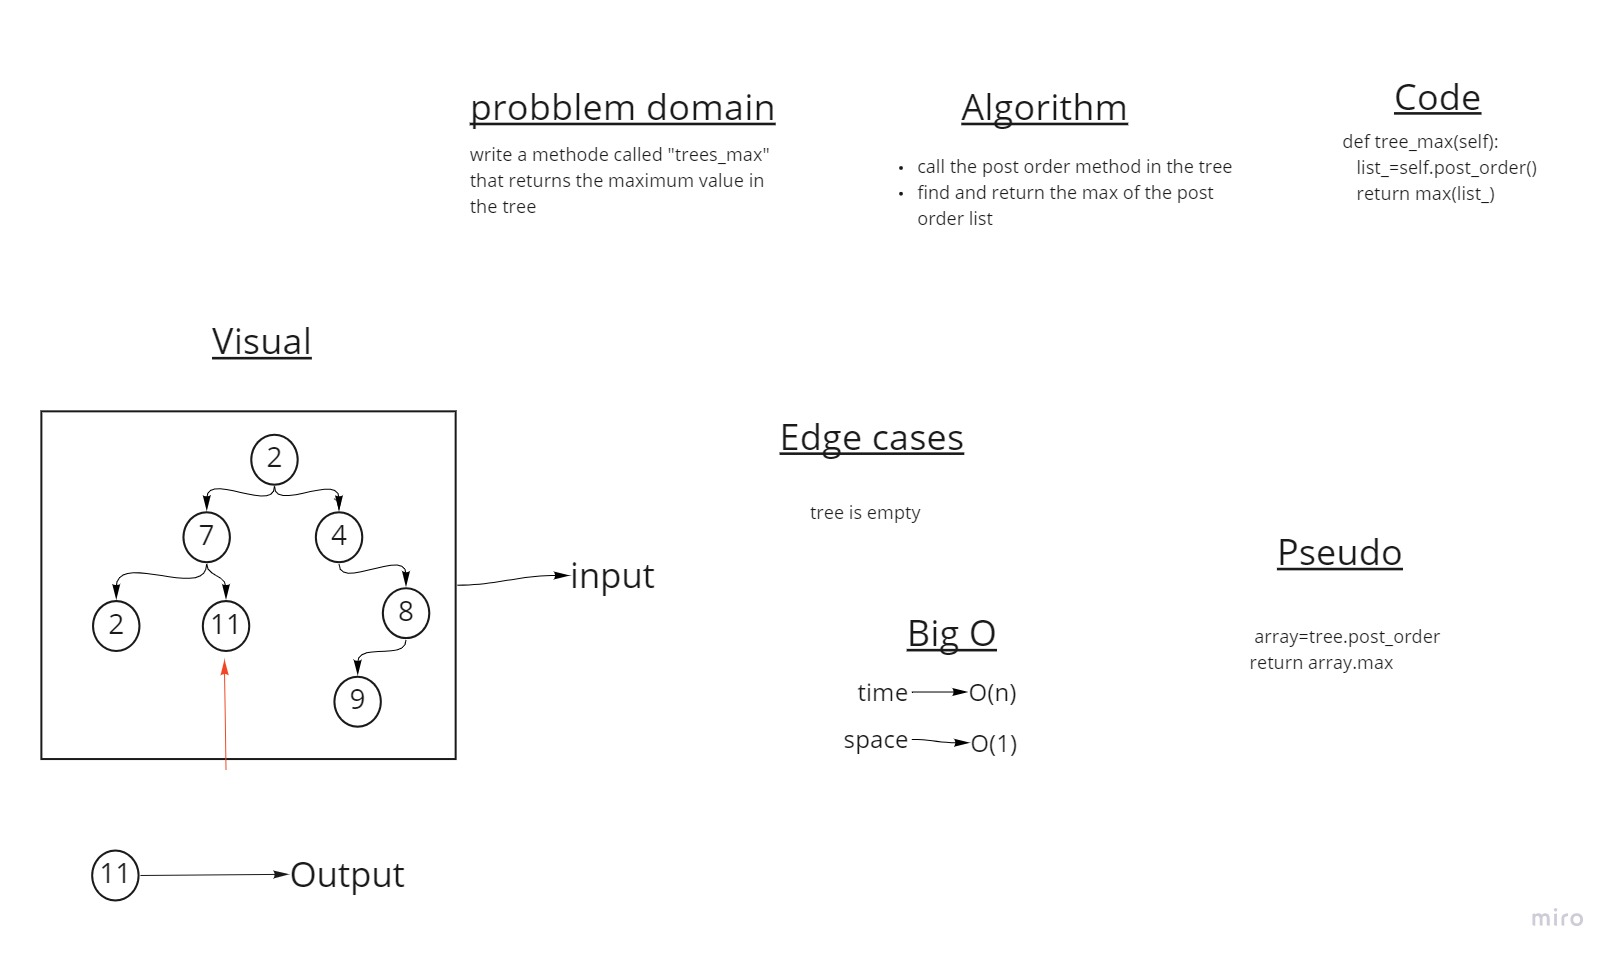
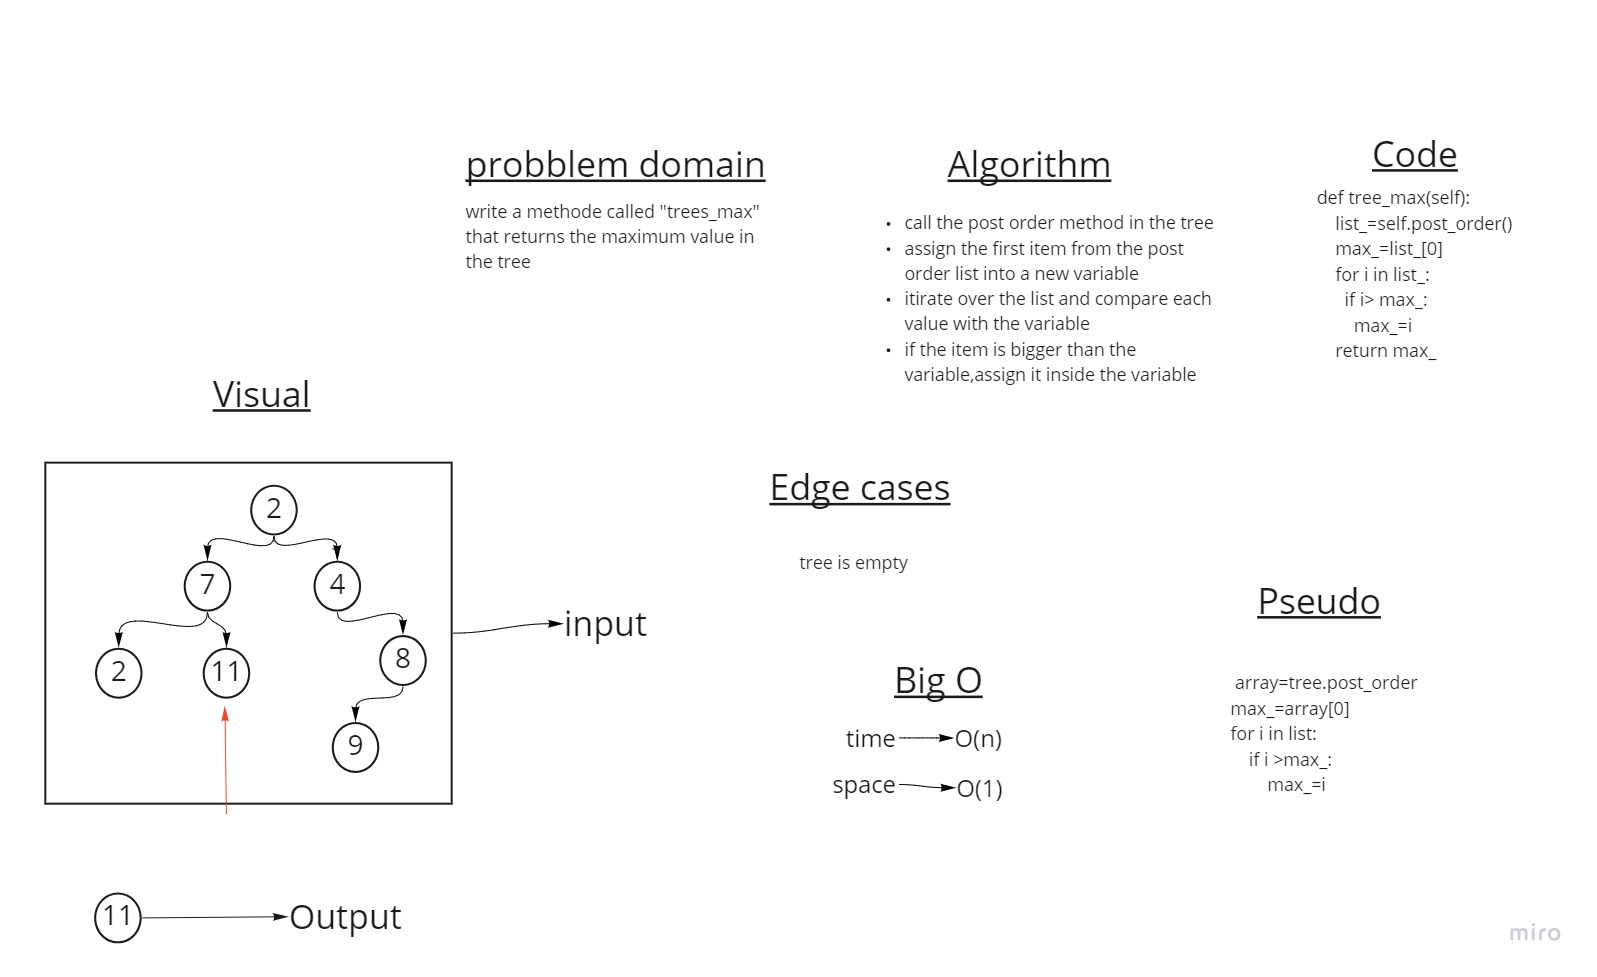
challange 17

diff --git a/python/trees/trees/trees.py b/python/trees/trees/trees.py
@@ -112,12 +112,15 @@ class BinaryTree:
 
   def tree_max(self):
     list_=self.post_order()
-    return max(list_)
+    max_=list_[0]
+    for i in list_:
+      if i> max_:
+        max_=i
+    return max_
 
 class Binary_search(BinaryTree):
   
   def __init__(self):
-      super().__init__()
       self.root=None
 
   def add(self,value):
@@ -159,16 +162,18 @@ class Binary_search(BinaryTree):
               temp = temp.right
 
 
-
-tree=BinaryTree()
-
-a_node = Node(1234)
-b_node = Node(2)
-c_node = Node(3)
-d_node = Node(4)
-a_node.left = b_node
-a_node.right = c_node
-b_node.left = d_node
-tree.root=a_node 
-
-print(tree.tree_max())
+if __name__=="__main__":
+  tree=BinaryTree()
+  a_node = Node(1234)
+  b_node = Node(2)
+  c_node = Node(3)
+  d_node = Node(4)
+  e_node=Node(1123)
+  f_node=Node(950)
+  a_node.left = b_node
+  a_node.right = c_node
+  b_node.left = d_node
+  c_node.left=e_node
+  e_node.left=f_node
+  tree.root=a_node 
+  print(tree.bfs())

diff --git a/python/trees/trees/breadth_first.py b/python/trees/trees/breadth_first.py
@@ -1,0 +1,23 @@
+def breadth_first(tree_):
+    breadth = []
+    breadth+=tree_.root
+    list_of_items = []
+
+    while breadth[0]:
+      front = breadth[0]
+      for i in breadth:
+        arr=[]
+        if i==front:
+          continue
+        arr+=i
+        breadth=arr
+
+      list_of_items += [front.data]
+
+      if front.left:
+        breadth+=[front.left]
+
+      if front.right:
+        breadth+=[front.right]
+
+    return list_of_items

diff --git a/python/trees/README.md b/python/trees/README.md
@@ -34,3 +34,6 @@ Big O of space = O(1)
 
 ### Trees Max
 ![max](Untitled.jpg)
+
+## Breadth first
+![bfs](Untitled1.jpg)
